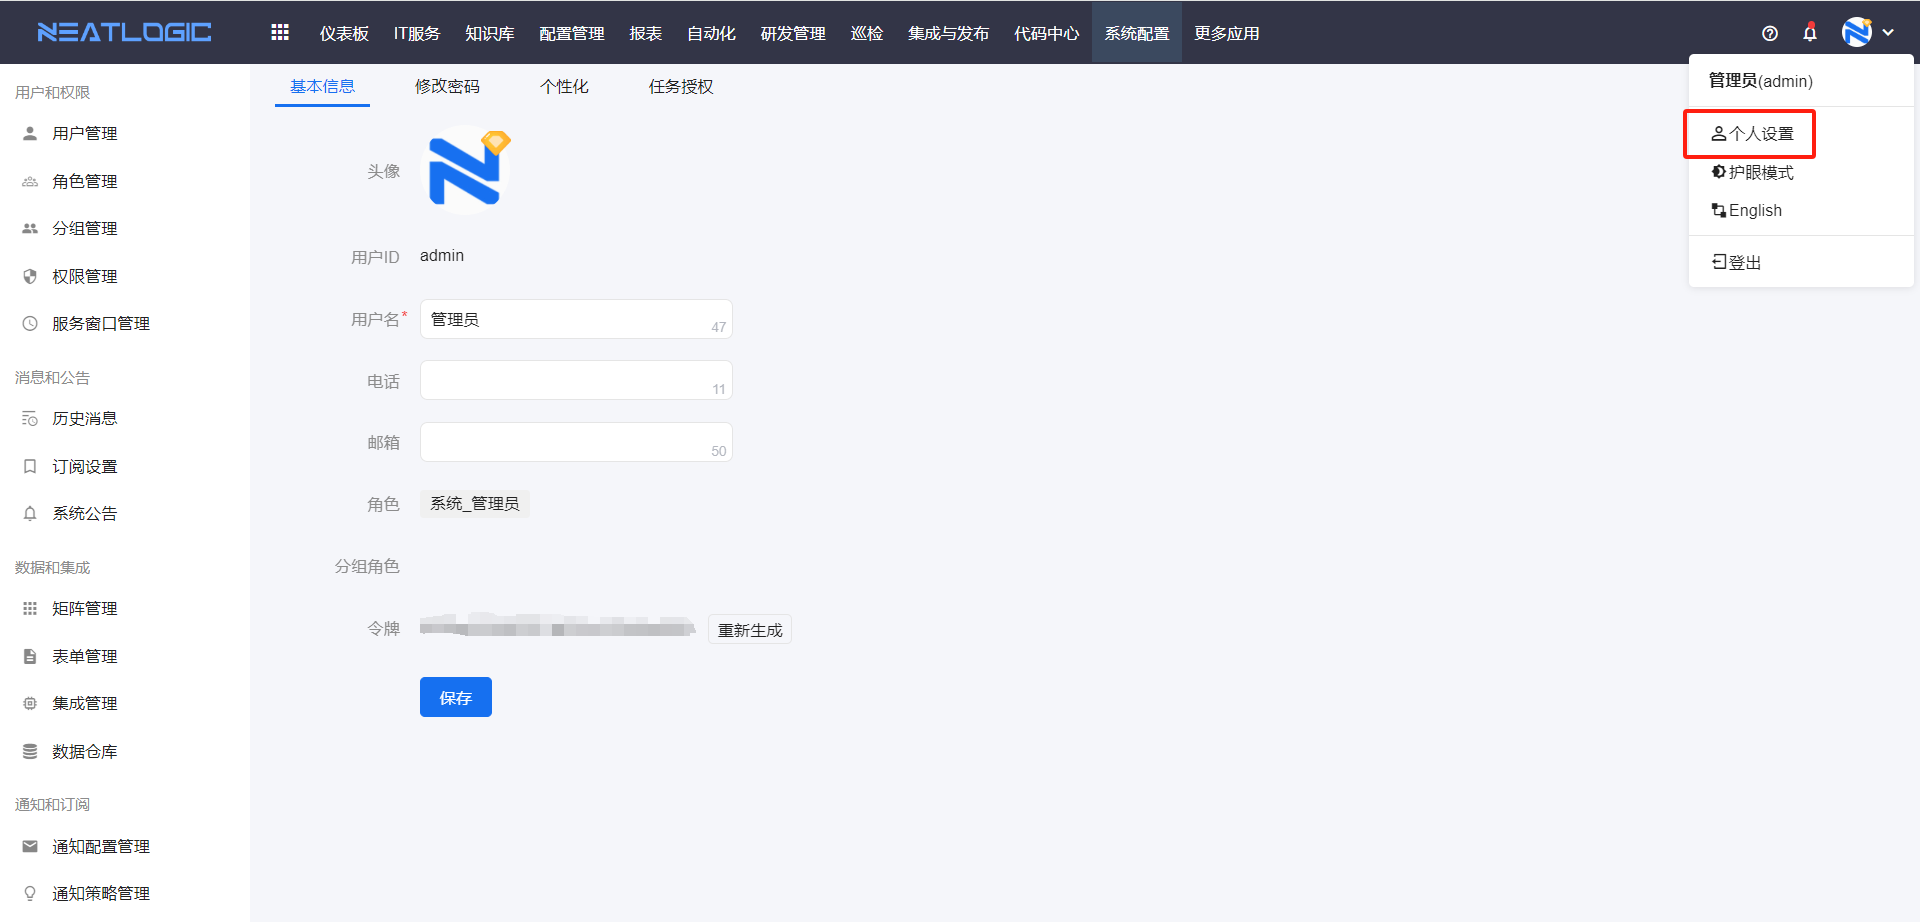
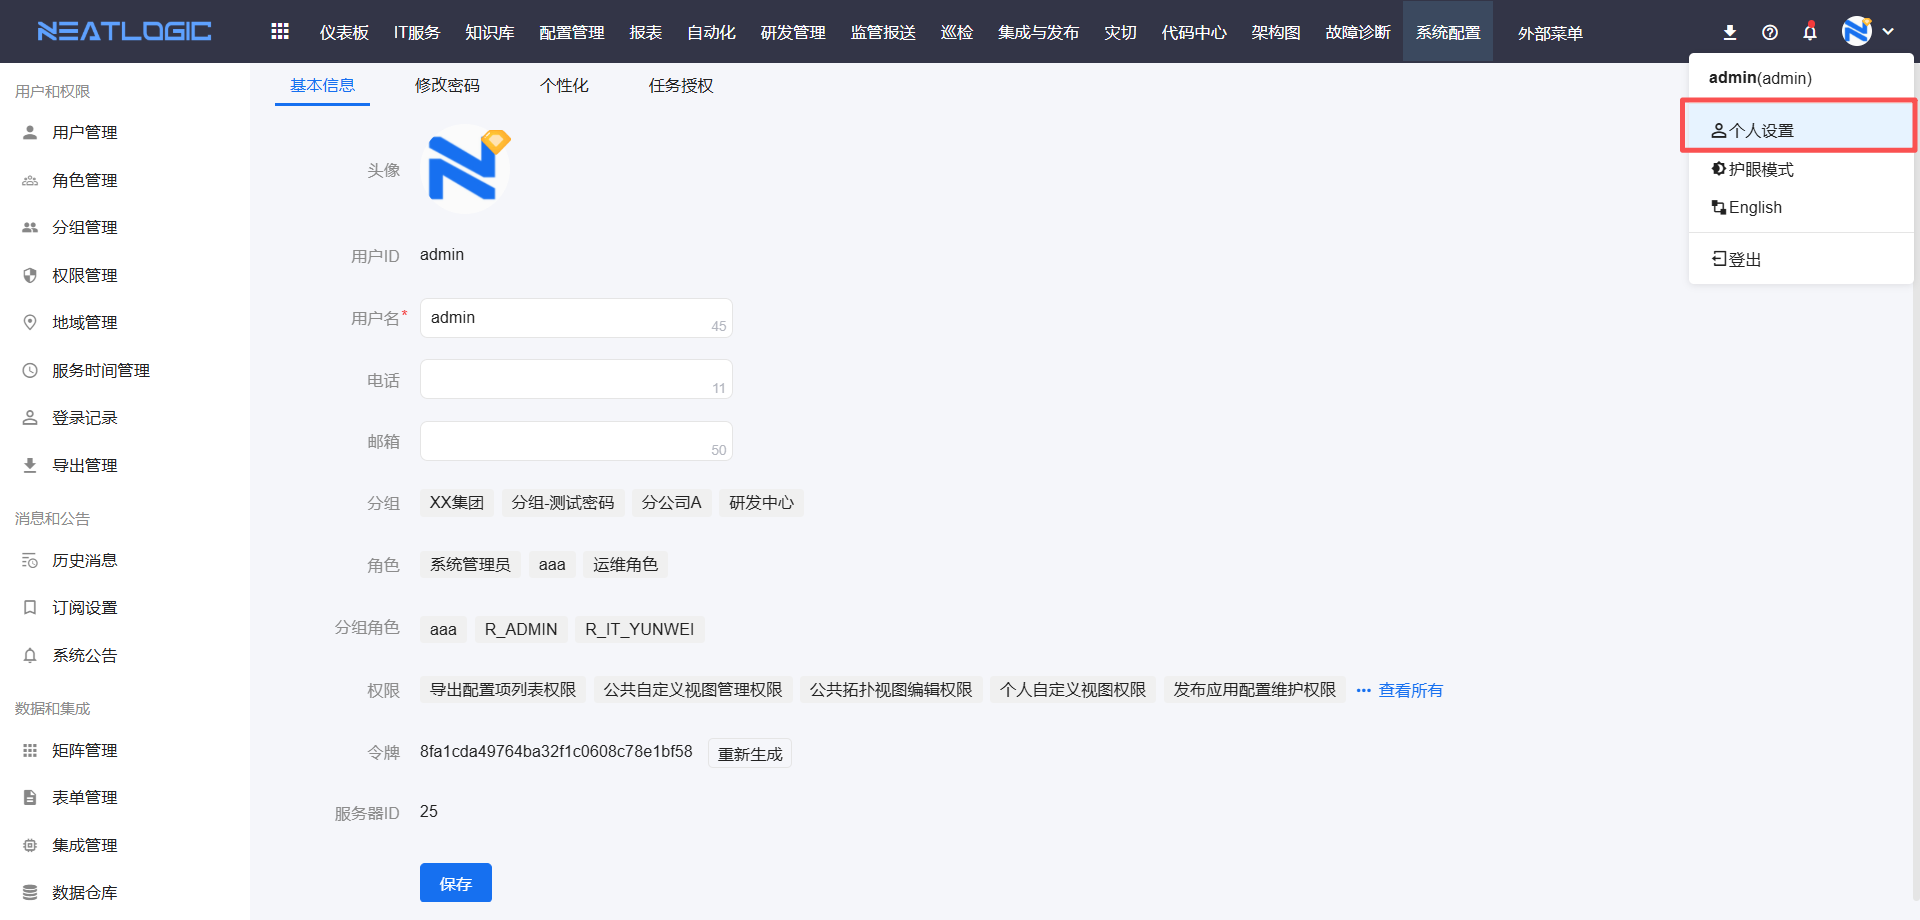
需求文档更新

diff --git a/src/main/resources/neatlogic/resources/documentonline/zh/100.系统配置/3.数据和集成/表单管理.md b/src/main/resources/neatlogic/resources/documentonline/zh/100.系统配置/3.数据和集成/表单管理.md
@@ -79,16 +79,16 @@
    
    这三个组件都是表格样式的组件。
 
-   **表格选择组件** 直接关联矩阵数据源，支持在矩阵数据源基础上再扩展新属性，扩展属性的值是手动填写。组件应用效果是选择矩阵的数据行，如图需要展示相关配置项数据详情的场景。
-   ![](images/表单管理_表单组件_表格选择组件.png)
-
-   **表格输入组件** 自定义表头属性字段，属性支持常见类型，包括文本框、下拉框、时间、日期等。组件应用效果是，在表格属性基础上添加空白行，然后输入数据，如图需要补充服务器信息的场景。
+   **表格输入组件** 自定义表头属性字段，属性支持常见类型，包括文本框、下拉框、时间、日期等。组件应用效果是，在表格中添加空白行，然后输入数据，示例如图所示。
    ![](images/表单管理_表单组件_表格输入组件.png)
    另外，下拉框组件可以过滤表格输入组件的下拉属性选项。
    ![](images/表单管理_表单组件_表格输入组件_属性过滤.png)
    下拉框属性还支持引用其他表格输入组件作为数据源，表格输入组件的文本框属性作为字段映射的对象。<br>
    这样该属性的数据源是动态的，随引用的表格的数据变化。
    ![](images/表单管理_引用表格输入组件作为数据源.png)
+
+   **表格选择组件** 直接关联矩阵数据源，支持在矩阵数据源基础上再扩展新属性，扩展属性的值是手动填写。组件应用效果是选择矩阵的数据行，如图需要展示相关配置项数据详情的场景。
+   ![](images/表单管理_表单组件_表格选择组件.png)
 
    矩阵选择组件是定义纵轴和横轴的类别和选项，其应用效果是生成一个选择矩阵，类别和选项的交点作为一个选项，支持设置为单选或多选。
    ![](images/表单管理_表单组件_矩阵选择组件.png)
@@ -108,7 +108,13 @@
     这个下拉框选项回显的样式与普通下拉框不同，选项是一个树形结构，表单组件配置要选择一个完整的树形分布的数据源，目前数据源只支持[知识圈](../../98.知识库/新建知识文档.md)。
     ![](images/表单管理_表单组件_树形下拉框.png)
 
-9.  配置项修改
+9.  表达式
+    
+    表达式组件通过常量和引用组件的数据来自生成值。表达式的书写方式有两种，包括字段拼接和js脚本转换，字段拼接支持常量和表单普通组件。
+    ![](images/表单管理_表单组件_表达式.png)
+    ![](images/表单管理_表单组件_表达式js.png)
+
+10. 配置项修改
 
     配置项修改组件是用于变更一个模型及其关联模型的配置项数据的组件。<br>
     组件配置中要选择一个关联模型（普通模型），这个模型即作为操作的起始模型，组件支持新增、编辑和删除三种操作类型（最少选一个）。<br>
@@ -121,7 +127,7 @@
     组件应用时，支持批量导入配置项数据来变更。导入的配置项id为空，则为新增；id不为空且匹配到对于配置项，则为修改。
     ![](images/表单管理_配置项同步_批量变更.png)
     
-10. 自动化组件
+11. 自动化组件
     
     自动化组件是应用于[自动化节点](../../2.IT服务/流程管理/流程管理.md)参数映射的，包括链接协议、执行目标、自动化服务。
 
@@ -138,7 +144,7 @@
     ![](images/表单管理_表单组件_脚本.png)
 
 #### 1.1.2. 组件联动
-组件联动是指在同一表单中，一个组件发生变化，引发其他组件发生联动变化。表单组件联动的动作一共有9种，分别是过滤、隐藏、只读、赋值、禁用、显示、必填、不可见、触发。
+组件联动是指在同一表单中，一个组件发生变化，引发其他组件发生联动变化。表单组件联动的动作一共有9种，分别是过滤、隐藏、只读、禁用、显示、必填、不可见、触发、条件赋值、联动赋值。
 ![](images/表单管理_组件联动.png)
 
 1. 清空：清空已填充的值，清空联动需要配置条件才能生效。
@@ -154,7 +160,9 @@
 4. 触发：目前只有修改优先级，这个联动是应用于IT服务工单的，组件数据修改触发工单优先级改变。当前组件必须是选择类的组件，且引用优先级矩阵为数据源，组件值得映射对象必须选择优先级的名称。
   ![](images/表单管理_组件联动_触发.gif)
 
-5. 过滤：过滤联动的是通过选择一个驱动过滤的组件，驱动组件的value值对应被过滤组件引用的矩阵的某个属性，然后通过选择驱动组件的值，在矩阵中过滤出属性值等于驱动组件value值的数据，返回到被过滤的组件。
+5. 过滤：过滤联动的是指其他表单组件数据会过滤当前组件的选项，驱动组件的value值匹配被过滤组件引用矩阵的某个属性，在矩阵中过滤出匹配的数据，返回到被过滤的组件。
+   
+   **支持过滤的组件：下拉框、单选框、复选框、表格输入组件-下拉框**
   
     如果驱动过滤的组件是用户选择组件，被过滤的表单组件引用的矩阵数据源要来自系统用户、角色和分组数据，过滤联动才能生效，用户选择组件的value值默认是用户、角色、分组的UUID。
   ![](images/表单管理_组件联动_过滤.png)

diff --git a/src/main/resources/neatlogic/resources/documentonline/zh/2.IT服务/服务/服务目录管理.md b/src/main/resources/neatlogic/resources/documentonline/zh/2.IT服务/服务/服务目录管理.md
@@ -21,8 +21,10 @@
 
   服务支持添加、编辑、删除和授权，有服务上报权限的用户才能通过该服务上报工单。
   
-  添加服务，服务的配置包括流水线（即[流程](../流程管理/流程管理.md)）、[优先级](../其他配置管理/配置管理.md)、[服务窗口](../../100.系统配置/5.基础服务/服务窗口管理.md)、[服务类型](../服务/服务类型管理.md)、上报权限、查看权限、转报设置和使用范围等。
-![](IMAGES/服务目录管理_添加服务.gif)
+  添加服务，服务的配置包括工作流（即[流程](../流程管理/流程管理.md)）、标题模板、[优先级](../其他配置管理/配置管理.md)、[服务窗口](../../100.系统配置/5.基础服务/服务窗口管理.md)、[服务类型](../服务/服务类型管理.md)、上报权限、查看权限、转报设置和使用范围等。
+
+![](IMAGES/服务目录管理_添加服务.png)
+
 - 优先级配置
   
   优先级若未激活，则通过该服务上报的工单没有优先级的数据。<br>
@@ -35,6 +37,11 @@
   优先级激活且不隐藏，工单上报页、详情页和处理页都显示优先级。
   ![](images/服务_优先级显示.png)
   ![](images/工单_优先级显示.png)
+
+- 标题模板
+  
+  标题可以定义一个模板，模板支持常量和变量，上报工单时会根据模板自动生成标题。
+  ![](images/服务_标题模板.png)
 
 - 关于转报设置
   

diff --git a/src/main/resources/neatlogic/resources/documentonline/zh/100.系统配置/1.用户和权限/个人设置.md b/src/main/resources/neatlogic/resources/documentonline/zh/100.系统配置/1.用户和权限/个人设置.md
@@ -4,7 +4,12 @@
 ![](images/个人设置.png)
 
 ## 基本信息
-基本信息中可以修改当前用户的用户名、电话和邮箱数据，还支持重新生成用户令牌。
+基本信息中可以修改当前用户的用户名、电话、邮箱、分组角色、分组角色、权限、令牌和服务器id数据。<br>
+- 分组，用户关联的分组；
+- 分组角色，是指用户所属分组关联的角色；
+- 角色包括，用户直接关联的角色和分组角色；
+- 权限，当前用户所有的权限；
+- 服务器id，对应服务节点状态管理页的id字段。
 ![](images/个人设置-基本信息.png)
 
 ## 修改密码
